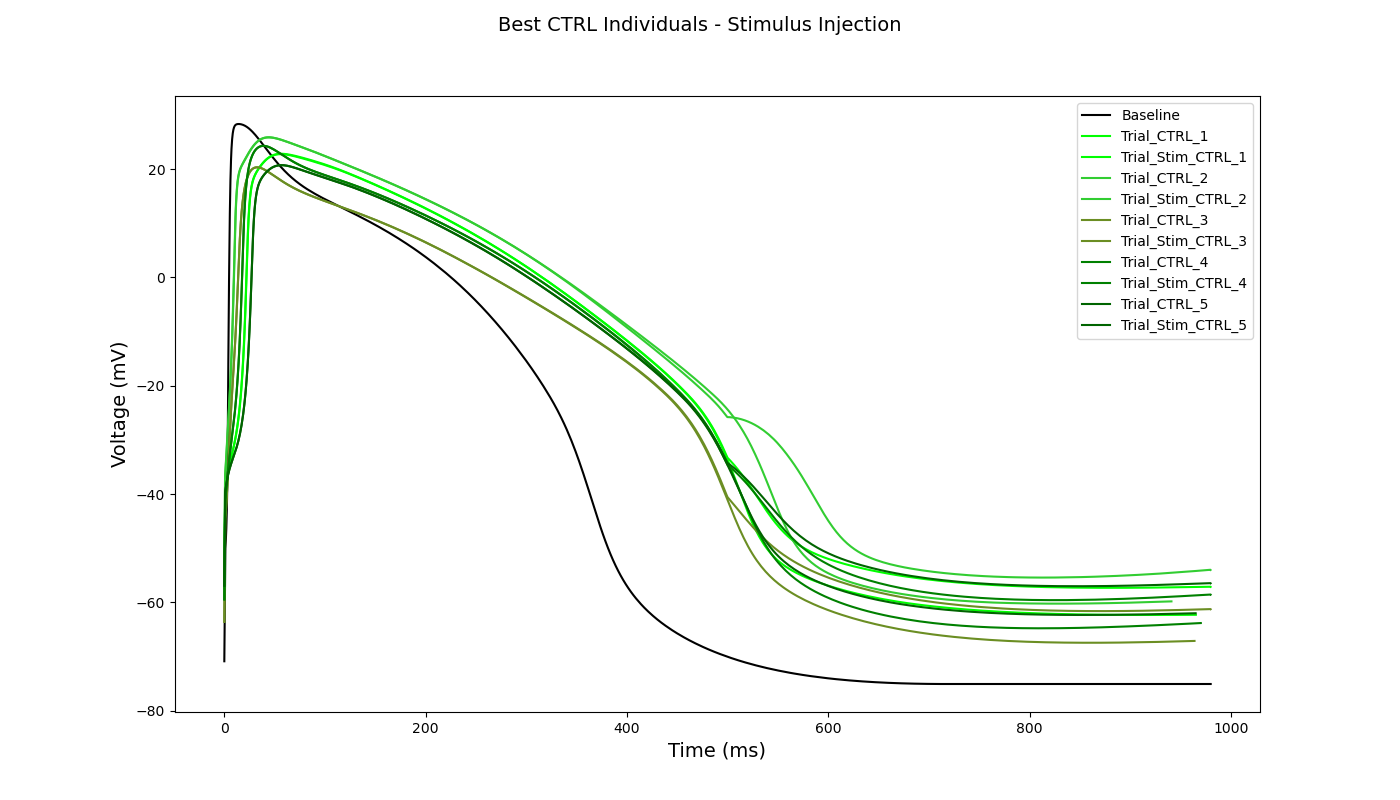
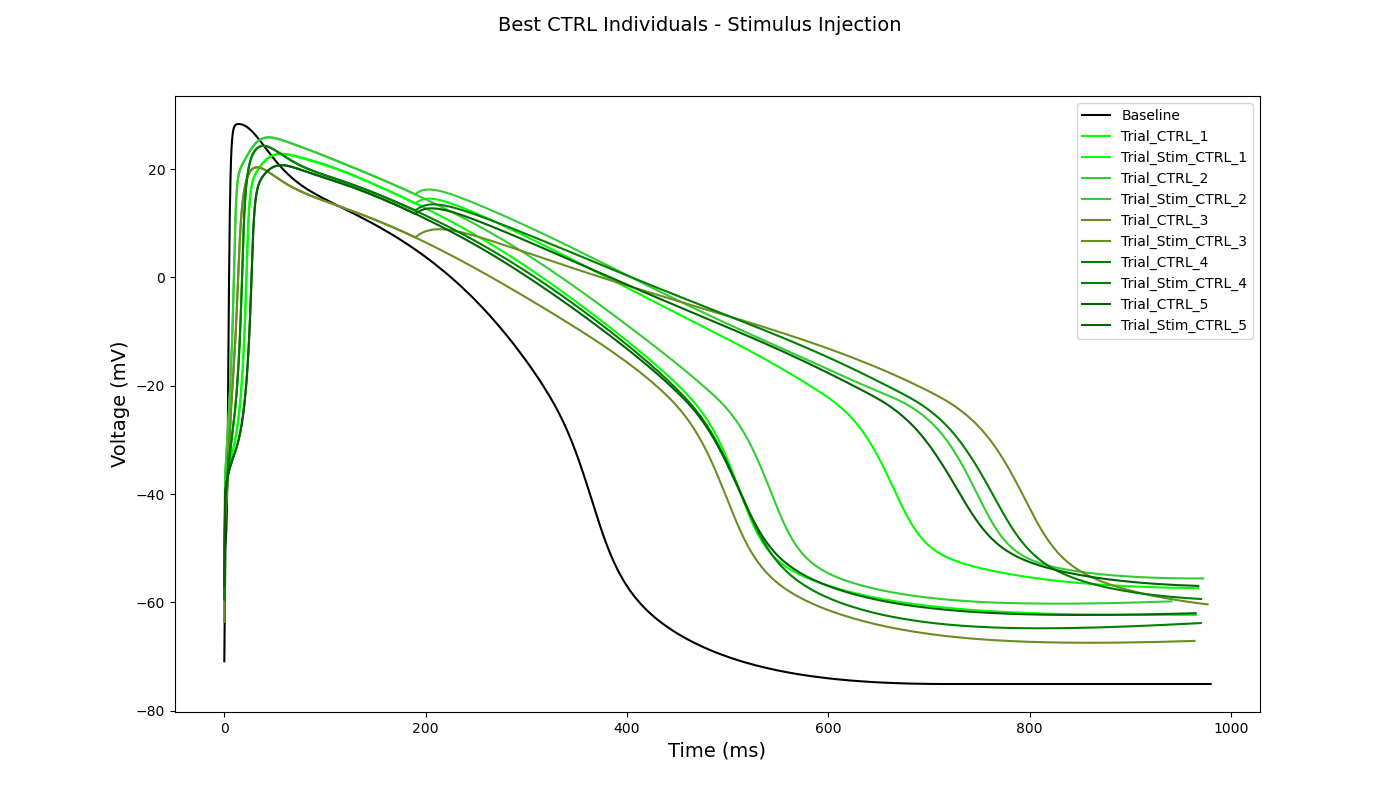
cal

diff --git a/leak.py b/leak.py
@@ -1,0 +1,39 @@
+import myokit
+import matplotlib.pyplot as plt
+import pandas as pd
+import numpy as np
+from functions import baseline_run, calc_APD, build_pop
+from scipy.signal import find_peaks 
+
+
+################# PACED #############################
+
+############### KERNIK + GSEAL #####################
+mod, proto, x = myokit.load('./paci-2013-ventricular-leak-fixed.mmt')
+proto.schedule(4, 10, 1, 1000, 0) 
+
+mod['membrane']['gLeak'].set_rhs(0.1)
+mod['ical']['g_scale'].set_rhs(3)
+
+sim = myokit.Simulation(mod,proto)
+sim.pre(1000 * 100) #pre-pace for 100 beats, to allow AP reach the steady state
+dat = sim.run(50000)
+
+i_stim = dat['stimulus.i_stim']
+peaks = find_peaks(-np.array(i_stim), distance=100)[0]
+start_ap = peaks[-3] 
+end_ap = peaks[-2]
+
+t = np.array(dat['engine.time'][start_ap:end_ap])
+t = t - t[0]
+max_idx = np.argmin(np.abs(t-1000))
+t_leak = t[0:max_idx]
+end_ap = start_ap + max_idx
+
+v_leak = np.array(dat['membrane.V'][start_ap:end_ap])
+
+plt.plot(t_leak,v_leak, label = 'HCM')
+plt.suptitle('HCM model')
+plt.legend()
+plt.savefig('HCM.png')
+plt.show()

diff --git a/functions.py b/functions.py
@@ -211,7 +211,7 @@ def stim(ind):
 
     sim.reset()
 
-    proto.schedule(0.045, 2510, 480, 1000, 1)
+    proto.schedule(0.045, 2200, 1000, 1000, 1)
     sim.set_protocol(proto)
     dat_rrc = sim.run(5000)
 
